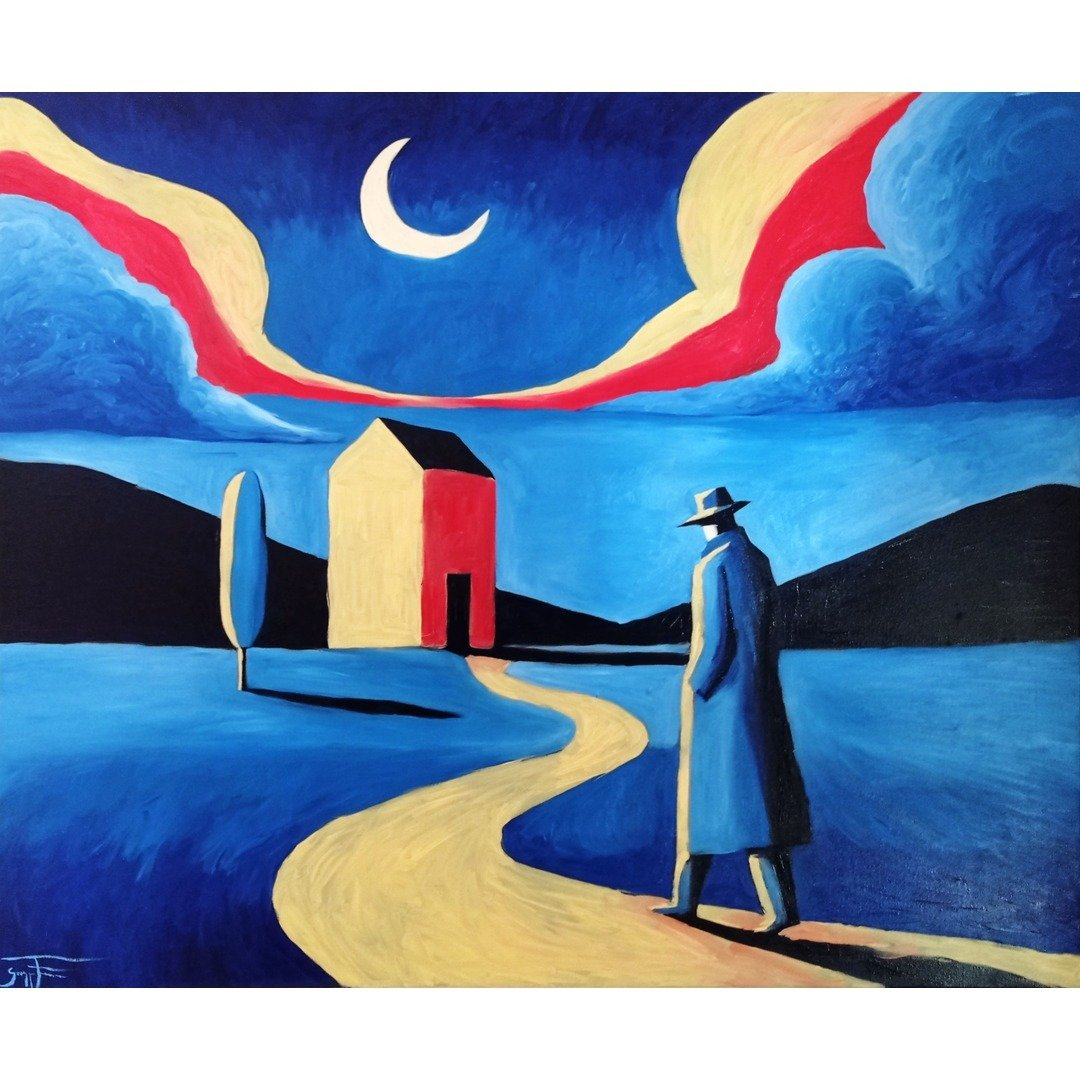
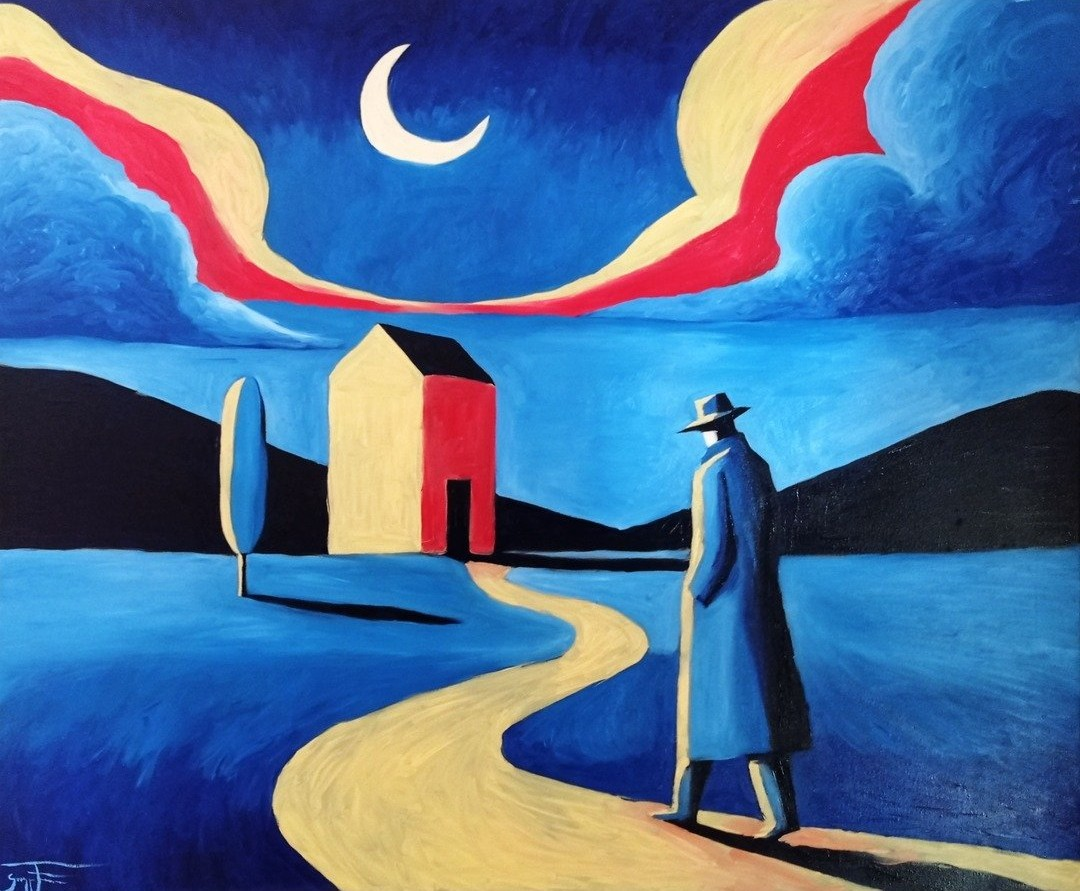
Chi sono: «Uomo che passeggia di notte sul sentiero giallo» accanto a «Il mio modo di dipingere»; ritocchi ai testi; immagine senza bande bianche
Claude-Session: https://claude.ai/code/session_01HXKdaDXLZyatRGpiqC9WEp

diff --git a/index.html b/index.html
@@ -98,7 +98,7 @@ footer a{color:var(--muted)}
 <div class="evidenza"><figure class="opera" data-stato="disponibile"><a href="#" data-lb="opere/la-divinita-del-sole-e-della-luna.jpg" data-t="La divinità del sole e della luna" data-s="acrilico su tela · 80×120 cm · 2026 · 650 €"><div class="cornice"><img src="opere/la-divinita-del-sole-e-della-luna.jpg" alt="La divinità del sole e della luna" loading="lazy"></div></a><figcaption><h3>La divinità del sole e della luna</h3><p class="scheda">acrilico su tela · 80×120 cm · 2026</p><p class="prezzo">650 € · <a href="https://ig.me/m/giuseppe.ferraro.86">scrivimi</a></p></figcaption></figure><figure class="opera" data-stato="disponibile"><a href="#" data-lb="opere/donna-e-cavallo-sotto-la-palma.jpg" data-t="Donna e cavallo sotto la palma" data-s="acrilico su tela · 80×120 cm · 2026 · 650 €"><div class="cornice"><img src="opere/donna-e-cavallo-sotto-la-palma.jpg" alt="Donna e cavallo sotto la palma" loading="lazy"></div></a><figcaption><h3>Donna e cavallo sotto la palma</h3><p class="scheda">acrilico su tela · 80×120 cm · 2026</p><p class="prezzo">650 € · <a href="https://ig.me/m/giuseppe.ferraro.86">scrivimi</a></p></figcaption></figure><figure class="opera" data-stato="disponibile"><a href="#" data-lb="opere/i-musicisti.jpg" data-t="I musicisti" data-s="acrilico su tela · 75×55 cm · 2026 · 300 €"><div class="cornice"><img src="opere/i-musicisti.jpg" alt="I musicisti" loading="lazy"></div></a><figcaption><h3>I musicisti</h3><p class="scheda">acrilico su tela · 75×55 cm · 2026</p><p class="prezzo">300 € · <a href="https://ig.me/m/giuseppe.ferraro.86">scrivimi</a></p></figcaption></figure></div></div></section>
 <section class="statement"><div class="wrap"><div>
 <p class="grande">Vivo e dipingo a San Gennaro Vesuviano, nella campagna ai piedi del Vesuvio.</p>
-<p>Acrilico e olio su tela, colori pieni, figure essenziali e molto blu.</p>
+<p>Acrilico e olio su tela, colori pieni e figure essenziali.</p>
 <p>Nei miei quadri finiscono persone, animali, storie antiche, immagini quotidiane e cose che, per un motivo o per un altro, mi rimangono in testa.</p>
 <p class="miti">Icaro, Prometeo, Medusa, Orfeo.</p>
 <p>Non mi interessa raccontarli come eroi lontani. Mi interessa il momento in cui diventano simili a noi: quando cadono, desiderano, perdono qualcosa, hanno paura o provano comunque ad andare avanti.</p>
@@ -123,4 +123,4 @@ const lb=document.getElementById('lb'),lbi=lb.querySelector('img'),lbt=lb.queryS
 document.querySelectorAll('a[data-lb]').forEach(a=>a.addEventListener('click',e=>{e.preventDefault();lbi.src=a.dataset.lb;lbt.textContent=a.dataset.t;lbs.textContent=a.dataset.s;lb.classList.add('aperto')}));
 lb.addEventListener('click',()=>lb.classList.remove('aperto'));document.addEventListener('keydown',e=>{if(e.key==='Escape')lb.classList.remove('aperto')});
 </script>
-<div class="wrap"><footer><span>© Giuseppe Ferraro · Napoli</span><span><a href="https://www.instagram.com/giuseppe.ferraro.86/">Instagram</a> · <a href="https://it.pinterest.com/gferraro86/">Pinterest</a> · <a href="privacy.html">Privacy</a></span></footer></div></body></html>
+<div class="wrap"><footer><span>© Giuseppe Ferraro · San Gennaro Vesuviano (Napoli)</span><span><a href="https://www.instagram.com/giuseppe.ferraro.86/">Instagram</a> · <a href="https://it.pinterest.com/gferraro86/">Pinterest</a> · <a href="privacy.html">Privacy</a></span></footer></div></body></html>

diff --git a/chi-sono.html b/chi-sono.html
@@ -99,7 +99,7 @@ footer a{color:var(--muted)}
 <p>Con il tempo alcune cose hanno continuato a tornare.</p>
 <p class="elenco">Le figure essenziali.<br>Gli animali.<br>Il mito.<br>I volti.<br>E il colore, sempre più libero.</p>
 <p>Per molto tempo il blu è tornato spesso nei miei quadri. Oggi la tavolozza si è allargata: ci sono le terre, i rossi, i gialli, colori più caldi.</p>
-<p>Non so se sia una direzione definitiva. Probabilmente no. Preferisco che anche il mio modo di dipingere possa cambiare.</p></div>
+</div>
 <img src="img/studio-2026-09.jpg" alt="Lo studio, con «Donna e cavallo sotto la palma» sul cavalletto" loading="lazy">
 </div>
 <div class="wrap riga">
@@ -116,7 +116,7 @@ footer a{color:var(--muted)}
 <p>Lavoro soprattutto con acrilico e olio su tela. Mi piacciono le forme essenziali, le campiture nette e il colore.</p>
 <p>Non cerco il realismo e non mi interessa che un'immagine dica tutto subito. Preferisco togliere, semplificare e lasciare che siano pochi elementi a reggere il quadro.</p>
 <p>Alcune opere nascono con un'idea abbastanza precisa. Altre cambiano mentre le dipingo e finiscono molto lontano da dove erano partite. È anche questo che mi interessa della pittura: non avere sempre tutto sotto controllo.</p></div>
-<figure><img src="opere/l-uomo-sulla-casa.jpg" alt="L&#x27;uomo sulla casa" loading="lazy"><figcaption>L&#x27;uomo sulla casa, 2025</figcaption></figure>
+<figure><img src="opere/uomo-che-passeggia-di-notte-sul-sentiero-giallo.jpg" alt="Uomo che passeggia di notte sul sentiero giallo" loading="lazy"><figcaption>Uomo che passeggia di notte sul sentiero giallo, 2024</figcaption></figure>
 </div>
 <div class="wrap riga">
 <div><h3>Quello che viene dopo</h3>
@@ -130,4 +130,4 @@ footer a{color:var(--muted)}
 <p>Per un'opera disponibile, un lavoro su misura o anche solo per fare due chiacchiere sui quadri: scrivimi un messaggio.</p>
 <a class="btn blu" href="https://ig.me/m/giuseppe.ferraro.86">Scrivimi su Instagram</a>
 <div class="social"><a href="https://www.instagram.com/giuseppe.ferraro.86/">@giuseppe.ferraro.86</a><a href="https://it.pinterest.com/gferraro86/">Pinterest</a></div></div></section>
-<div class="wrap"><footer><span>© Giuseppe Ferraro · Napoli</span><span><a href="https://www.instagram.com/giuseppe.ferraro.86/">Instagram</a> · <a href="https://it.pinterest.com/gferraro86/">Pinterest</a> · <a href="privacy.html">Privacy</a></span></footer></div></body></html>
+<div class="wrap"><footer><span>© Giuseppe Ferraro · San Gennaro Vesuviano (Napoli)</span><span><a href="https://www.instagram.com/giuseppe.ferraro.86/">Instagram</a> · <a href="https://it.pinterest.com/gferraro86/">Pinterest</a> · <a href="privacy.html">Privacy</a></span></footer></div></body></html>

diff --git a/opere.html b/opere.html
@@ -111,4 +111,4 @@ function filtra(f){B.forEach(b=>b.classList.toggle('on',b.dataset.f===f));G.quer
 B.forEach(b=>b.addEventListener('click',()=>filtra(b.dataset.f)));
 filtra(location.hash==='#vendute'?'venduta':location.hash==='#tutte'?'tutte':'disponibile');window.scrollTo(0,0);
 </script>
-<div class="wrap"><footer><span>© Giuseppe Ferraro · Napoli</span><span><a href="https://www.instagram.com/giuseppe.ferraro.86/">Instagram</a> · <a href="https://it.pinterest.com/gferraro86/">Pinterest</a> · <a href="privacy.html">Privacy</a></span></footer></div></body></html>
+<div class="wrap"><footer><span>© Giuseppe Ferraro · San Gennaro Vesuviano (Napoli)</span><span><a href="https://www.instagram.com/giuseppe.ferraro.86/">Instagram</a> · <a href="https://it.pinterest.com/gferraro86/">Pinterest</a> · <a href="privacy.html">Privacy</a></span></footer></div></body></html>
